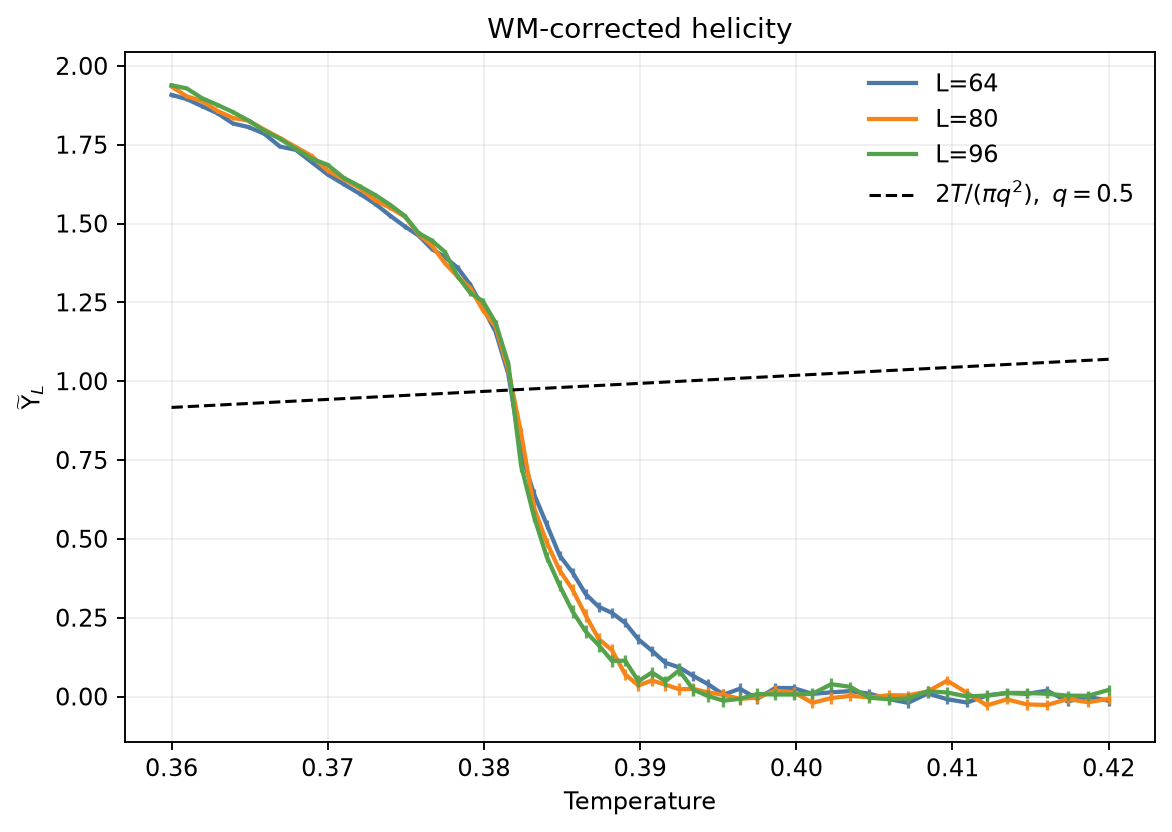
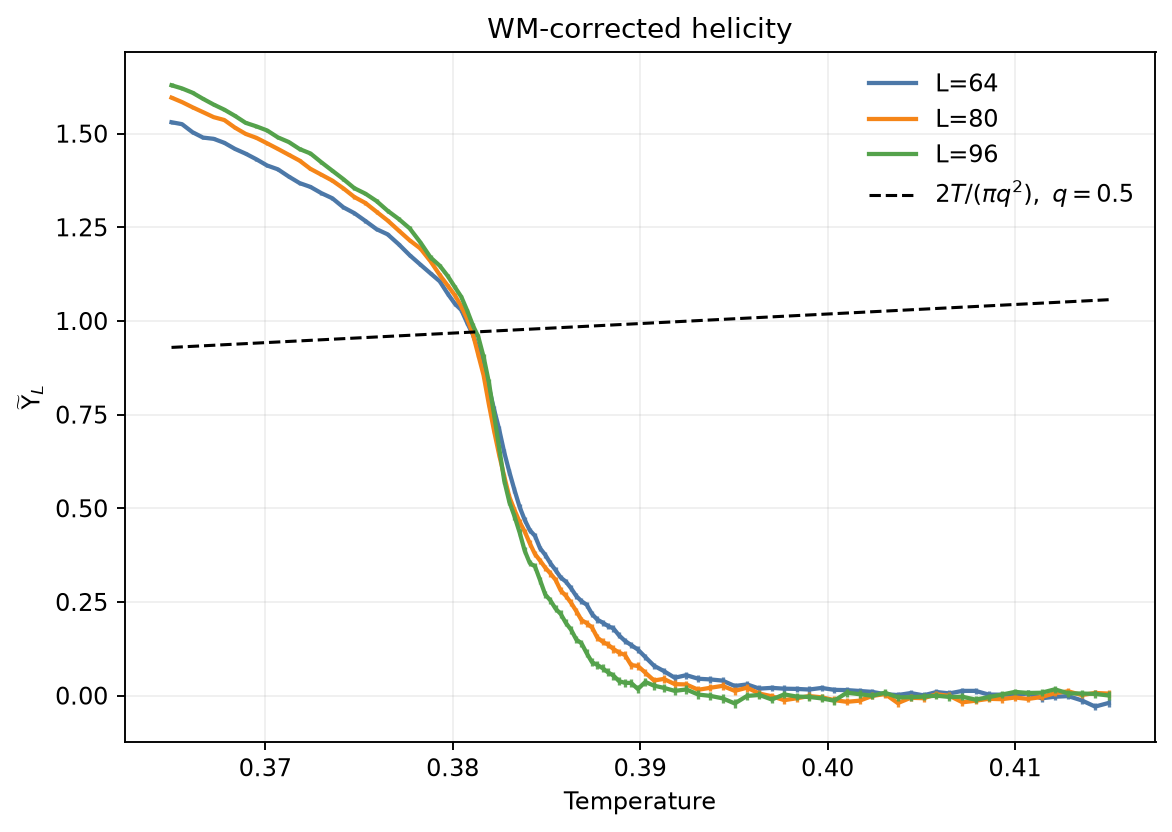
Baseline before He3 sampling experiments

diff --git a/analysis_results/he3/analysis.md b/analysis_results/he3/analysis.md
@@ -7,9 +7,9 @@
 
 ## Weber–Minnhagen Fit
 
-- Critical temperature: $T_{BKT} = 0.381771$
-- Correction constant: $C = -1.988596$
-- Reduced chi-square: 1.731
+- Critical temperature: $T_{BKT} = 0.381080$
+- Correction constant: $C = -5.514298$
+- Reduced chi-square: 9.556
 
 The helicity modulus is rescaled using:
 
@@ -54,10 +54,10 @@ The WM fit is exploratory. The chirality Binder cumulants are inspected visually
 ```text
 Parallel tempering diagnostics (including thermalization)
 Trip means exclude unfinished trips; zero trips does not imply zero one-way crossings.
-L=64: 288635/413000 accepted, 0 trips, mean None sweeps/trip
+L=64: 3342307/3960000 accepted, 3 trips, mean 693846.6666666666 sweeps/trip
   walker paths recorded
-L=80: 259825/413000 accepted, 0 trips, mean None sweeps/trip
+L=80: 3193624/3960000 accepted, 0 trips, mean None sweeps/trip
   walker paths recorded
-L=96: 232900/413000 accepted, 0 trips, mean None sweeps/trip
+L=96: 3046254/3960000 accepted, 0 trips, mean None sweeps/trip
   walker paths recorded
 ```
